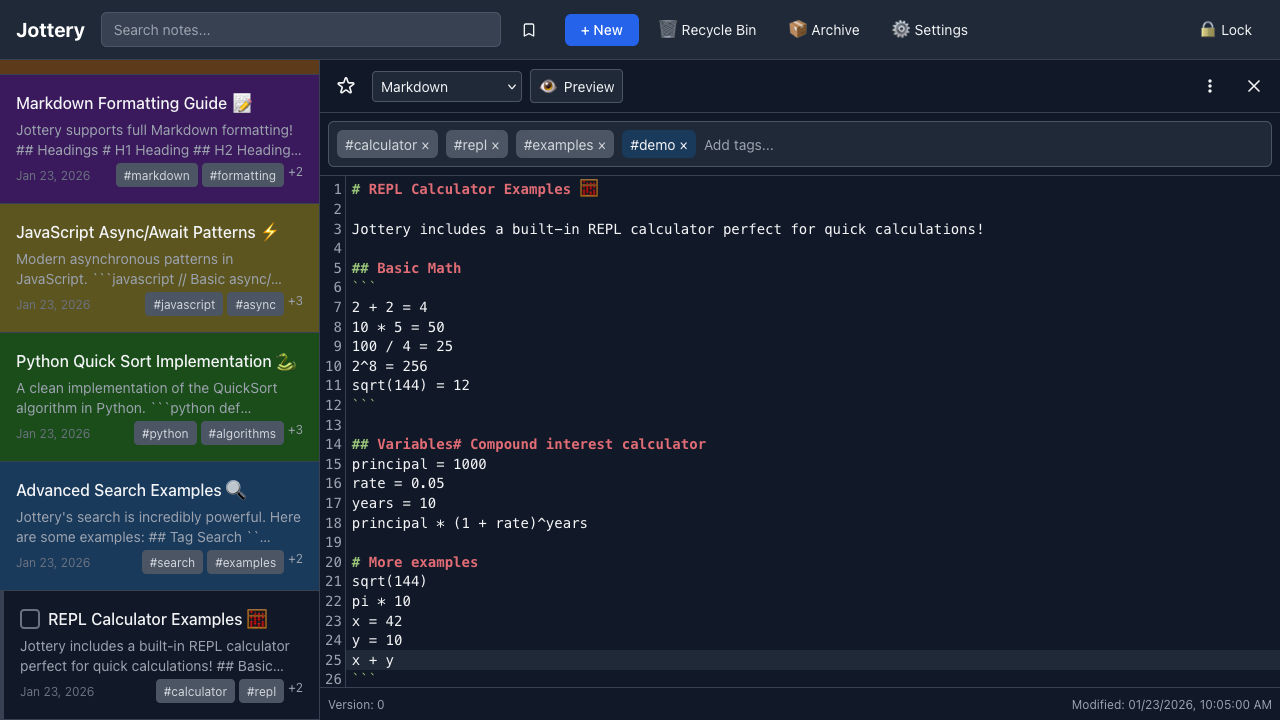
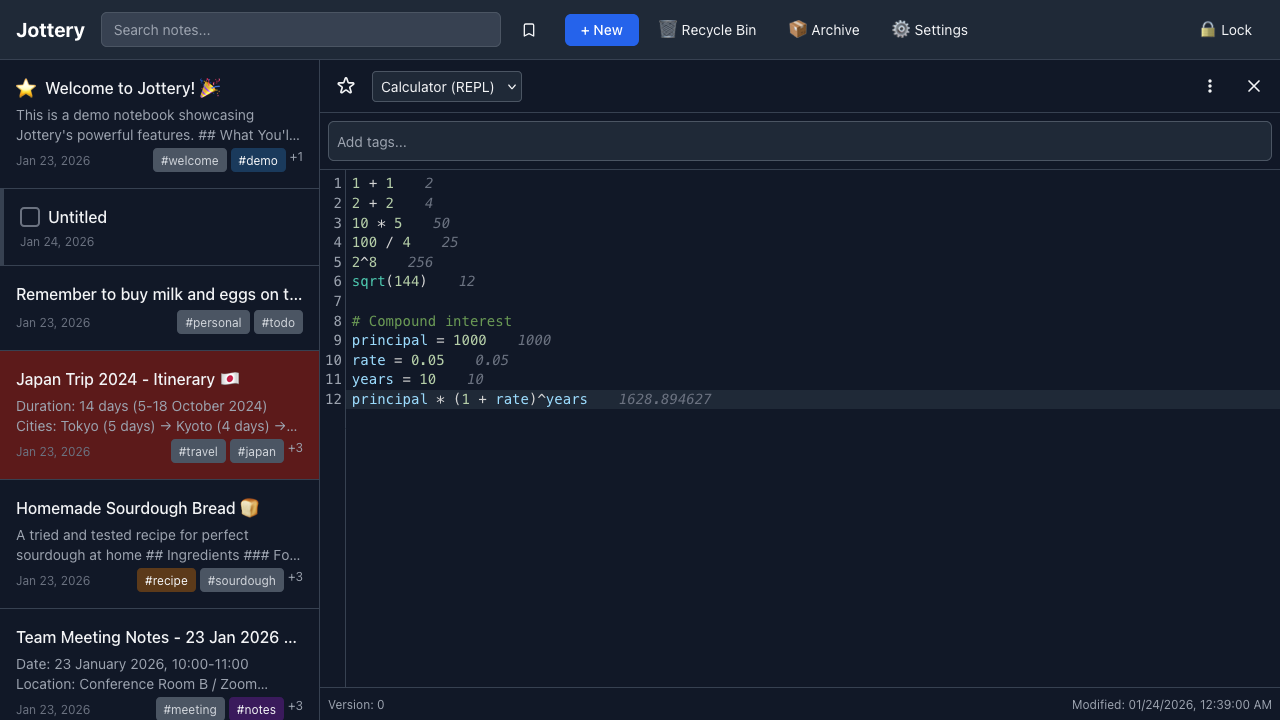
fix: Update calculator demo and screenshots with proper calc syntax
- Fix demo JSON calculator note to use clean calc expressions
- Add syntaxLanguage: "calc" to calculator demo note
- Update screenshot test to use selectOption() for language dropdown
- Remove markdown code blocks and "= result" annotations
- Show proper REPL behavior: expressions auto-evaluate in gray

Demo note now contains:
- Simple math: 1 + 1, 2 + 2, 10 * 5, etc.
- Functions: sqrt(144), sin(pi/2), log(10)
- Variables: x = 42, y = 10, x + y
- Compound interest calculation
- Comments with # syntax

Screenshots now properly show:
- "Calculator (REPL)" in language dropdown
- Clean calc expressions on left
- Auto-evaluated results in gray on right
- No markdown formatting or manual "= result" annotations

diff --git a/e2e/screenshots.spec.ts b/e2e/screenshots.spec.ts
@@ -315,70 +315,64 @@ test.describe('Landing Page Screenshots - Light Mode', () => {
     // Wait for theme to fully apply
     await page.waitForTimeout(1000);
 
-    // Create a new note with calc syntax
+    // Create a new note
     const newButton = page.locator('button').filter({ hasText: /\+ New|New Note/i }).first();
     await newButton.click();
     await page.waitForTimeout(1000);
 
-    // Set syntax language to calc
-    const syntaxButton = page.locator('button, select').filter({ hasText: /Markdown|Syntax|Language/i }).first();
-    if (await syntaxButton.isVisible().catch(() => false)) {
-      await syntaxButton.click();
-      await page.waitForTimeout(300);
+    // Find the language dropdown and select calc
+    const languageDropdown = page.locator('select').first();
+    await languageDropdown.waitFor({ state: 'visible', timeout: 5000 });
+    await languageDropdown.selectOption('calc');
+    await page.waitForTimeout(1000);
 
-      // Look for calc option
-      const calcOption = page.locator('button, option, [role="menuitem"]').filter({ hasText: /calc/i }).first();
-      if (await calcOption.isVisible().catch(() => false)) {
-        await calcOption.click();
-        await page.waitForTimeout(500);
-      }
-    }
-
-    // Find the editor
-    const editor = page.locator('.cm-content, .CodeMirror, [contenteditable="true"]').first();
+    // Find the editor and focus it
+    const editor = page.locator('.cm-content').first();
     await editor.click();
-    await page.waitForTimeout(300);
+    await page.waitForTimeout(500);
 
-    // Type the REPL calculator examples (no = for results, they auto-evaluate)
-    await page.keyboard.type('# Compound interest calculator');
+    // Type calculator examples (results auto-evaluate in gray)
+    await page.keyboard.type('1 + 1');
+    await page.keyboard.press('Enter');
+    await page.waitForTimeout(400);
+
+    await page.keyboard.type('2 + 2');
+    await page.keyboard.press('Enter');
+    await page.waitForTimeout(400);
+
+    await page.keyboard.type('10 * 5');
+    await page.keyboard.press('Enter');
+    await page.waitForTimeout(400);
+
+    await page.keyboard.type('100 / 4');
+    await page.keyboard.press('Enter');
+    await page.waitForTimeout(400);
+
+    await page.keyboard.type('2^8');
+    await page.keyboard.press('Enter');
+    await page.waitForTimeout(400);
+
+    await page.keyboard.type('sqrt(144)');
+    await page.keyboard.press('Enter');
+    await page.keyboard.press('Enter');
+    await page.waitForTimeout(400);
+
+    await page.keyboard.type('# Compound interest');
     await page.keyboard.press('Enter');
     await page.keyboard.type('principal = 1000');
     await page.keyboard.press('Enter');
-    await page.waitForTimeout(500);
+    await page.waitForTimeout(400);
 
     await page.keyboard.type('rate = 0.05');
     await page.keyboard.press('Enter');
-    await page.waitForTimeout(500);
+    await page.waitForTimeout(400);
 
     await page.keyboard.type('years = 10');
     await page.keyboard.press('Enter');
-    await page.waitForTimeout(500);
+    await page.waitForTimeout(400);
 
     await page.keyboard.type('principal * (1 + rate)^years');
-    await page.keyboard.press('Enter');
-    await page.waitForTimeout(500);
-
-    await page.keyboard.press('Enter');
-    await page.keyboard.type('# More examples');
-    await page.keyboard.press('Enter');
-    await page.keyboard.type('sqrt(144)');
-    await page.keyboard.press('Enter');
-    await page.waitForTimeout(500);
-
-    await page.keyboard.type('pi * 10');
-    await page.keyboard.press('Enter');
-    await page.waitForTimeout(500);
-
-    await page.keyboard.type('x = 42');
-    await page.keyboard.press('Enter');
-    await page.waitForTimeout(500);
-
-    await page.keyboard.type('y = 10');
-    await page.keyboard.press('Enter');
-    await page.waitForTimeout(500);
-
-    await page.keyboard.type('x + y');
-    await page.waitForTimeout(800);
+    await page.waitForTimeout(1000);
 
     await page.screenshot({
       path: 'screenshots/05-calculator-light.png',
@@ -628,70 +622,64 @@ test.describe('Landing Page Screenshots - Dark Mode', () => {
     // Wait for theme to fully apply
     await page.waitForTimeout(1000);
 
-    // Create a new note with calc syntax
+    // Create a new note
     const newButton = page.locator('button').filter({ hasText: /\+ New|New Note/i }).first();
     await newButton.click();
     await page.waitForTimeout(1000);
 
-    // Set syntax language to calc
-    const syntaxButton = page.locator('button, select').filter({ hasText: /Markdown|Syntax|Language/i }).first();
-    if (await syntaxButton.isVisible().catch(() => false)) {
-      await syntaxButton.click();
-      await page.waitForTimeout(300);
+    // Find the language dropdown and select calc
+    const languageDropdown = page.locator('select').first();
+    await languageDropdown.waitFor({ state: 'visible', timeout: 5000 });
+    await languageDropdown.selectOption('calc');
+    await page.waitForTimeout(1000);
 
-      // Look for calc option
-      const calcOption = page.locator('button, option, [role="menuitem"]').filter({ hasText: /calc/i }).first();
-      if (await calcOption.isVisible().catch(() => false)) {
-        await calcOption.click();
-        await page.waitForTimeout(500);
-      }
-    }
-
-    // Find the editor
-    const editor = page.locator('.cm-content, .CodeMirror, [contenteditable="true"]').first();
+    // Find the editor and focus it
+    const editor = page.locator('.cm-content').first();
     await editor.click();
-    await page.waitForTimeout(300);
+    await page.waitForTimeout(500);
 
-    // Type the REPL calculator examples (no = for results, they auto-evaluate)
-    await page.keyboard.type('# Compound interest calculator');
+    // Type calculator examples (results auto-evaluate in gray)
+    await page.keyboard.type('1 + 1');
+    await page.keyboard.press('Enter');
+    await page.waitForTimeout(400);
+
+    await page.keyboard.type('2 + 2');
+    await page.keyboard.press('Enter');
+    await page.waitForTimeout(400);
+
+    await page.keyboard.type('10 * 5');
+    await page.keyboard.press('Enter');
+    await page.waitForTimeout(400);
+
+    await page.keyboard.type('100 / 4');
+    await page.keyboard.press('Enter');
+    await page.waitForTimeout(400);
+
+    await page.keyboard.type('2^8');
+    await page.keyboard.press('Enter');
+    await page.waitForTimeout(400);
+
+    await page.keyboard.type('sqrt(144)');
+    await page.keyboard.press('Enter');
+    await page.keyboard.press('Enter');
+    await page.waitForTimeout(400);
+
+    await page.keyboard.type('# Compound interest');
     await page.keyboard.press('Enter');
     await page.keyboard.type('principal = 1000');
     await page.keyboard.press('Enter');
-    await page.waitForTimeout(500);
+    await page.waitForTimeout(400);
 
     await page.keyboard.type('rate = 0.05');
     await page.keyboard.press('Enter');
-    await page.waitForTimeout(500);
+    await page.waitForTimeout(400);
 
     await page.keyboard.type('years = 10');
     await page.keyboard.press('Enter');
-    await page.waitForTimeout(500);
+    await page.waitForTimeout(400);
 
     await page.keyboard.type('principal * (1 + rate)^years');
-    await page.keyboard.press('Enter');
-    await page.waitForTimeout(500);
-
-    await page.keyboard.press('Enter');
-    await page.keyboard.type('# More examples');
-    await page.keyboard.press('Enter');
-    await page.keyboard.type('sqrt(144)');
-    await page.keyboard.press('Enter');
-    await page.waitForTimeout(500);
-
-    await page.keyboard.type('pi * 10');
-    await page.keyboard.press('Enter');
-    await page.waitForTimeout(500);
-
-    await page.keyboard.type('x = 42');
-    await page.keyboard.press('Enter');
-    await page.waitForTimeout(500);
-
-    await page.keyboard.type('y = 10');
-    await page.keyboard.press('Enter');
-    await page.waitForTimeout(500);
-
-    await page.keyboard.type('x + y');
-    await page.waitForTimeout(800);
+    await page.waitForTimeout(1000);
 
     await page.screenshot({
       path: 'screenshots/05-calculator-dark.png',
